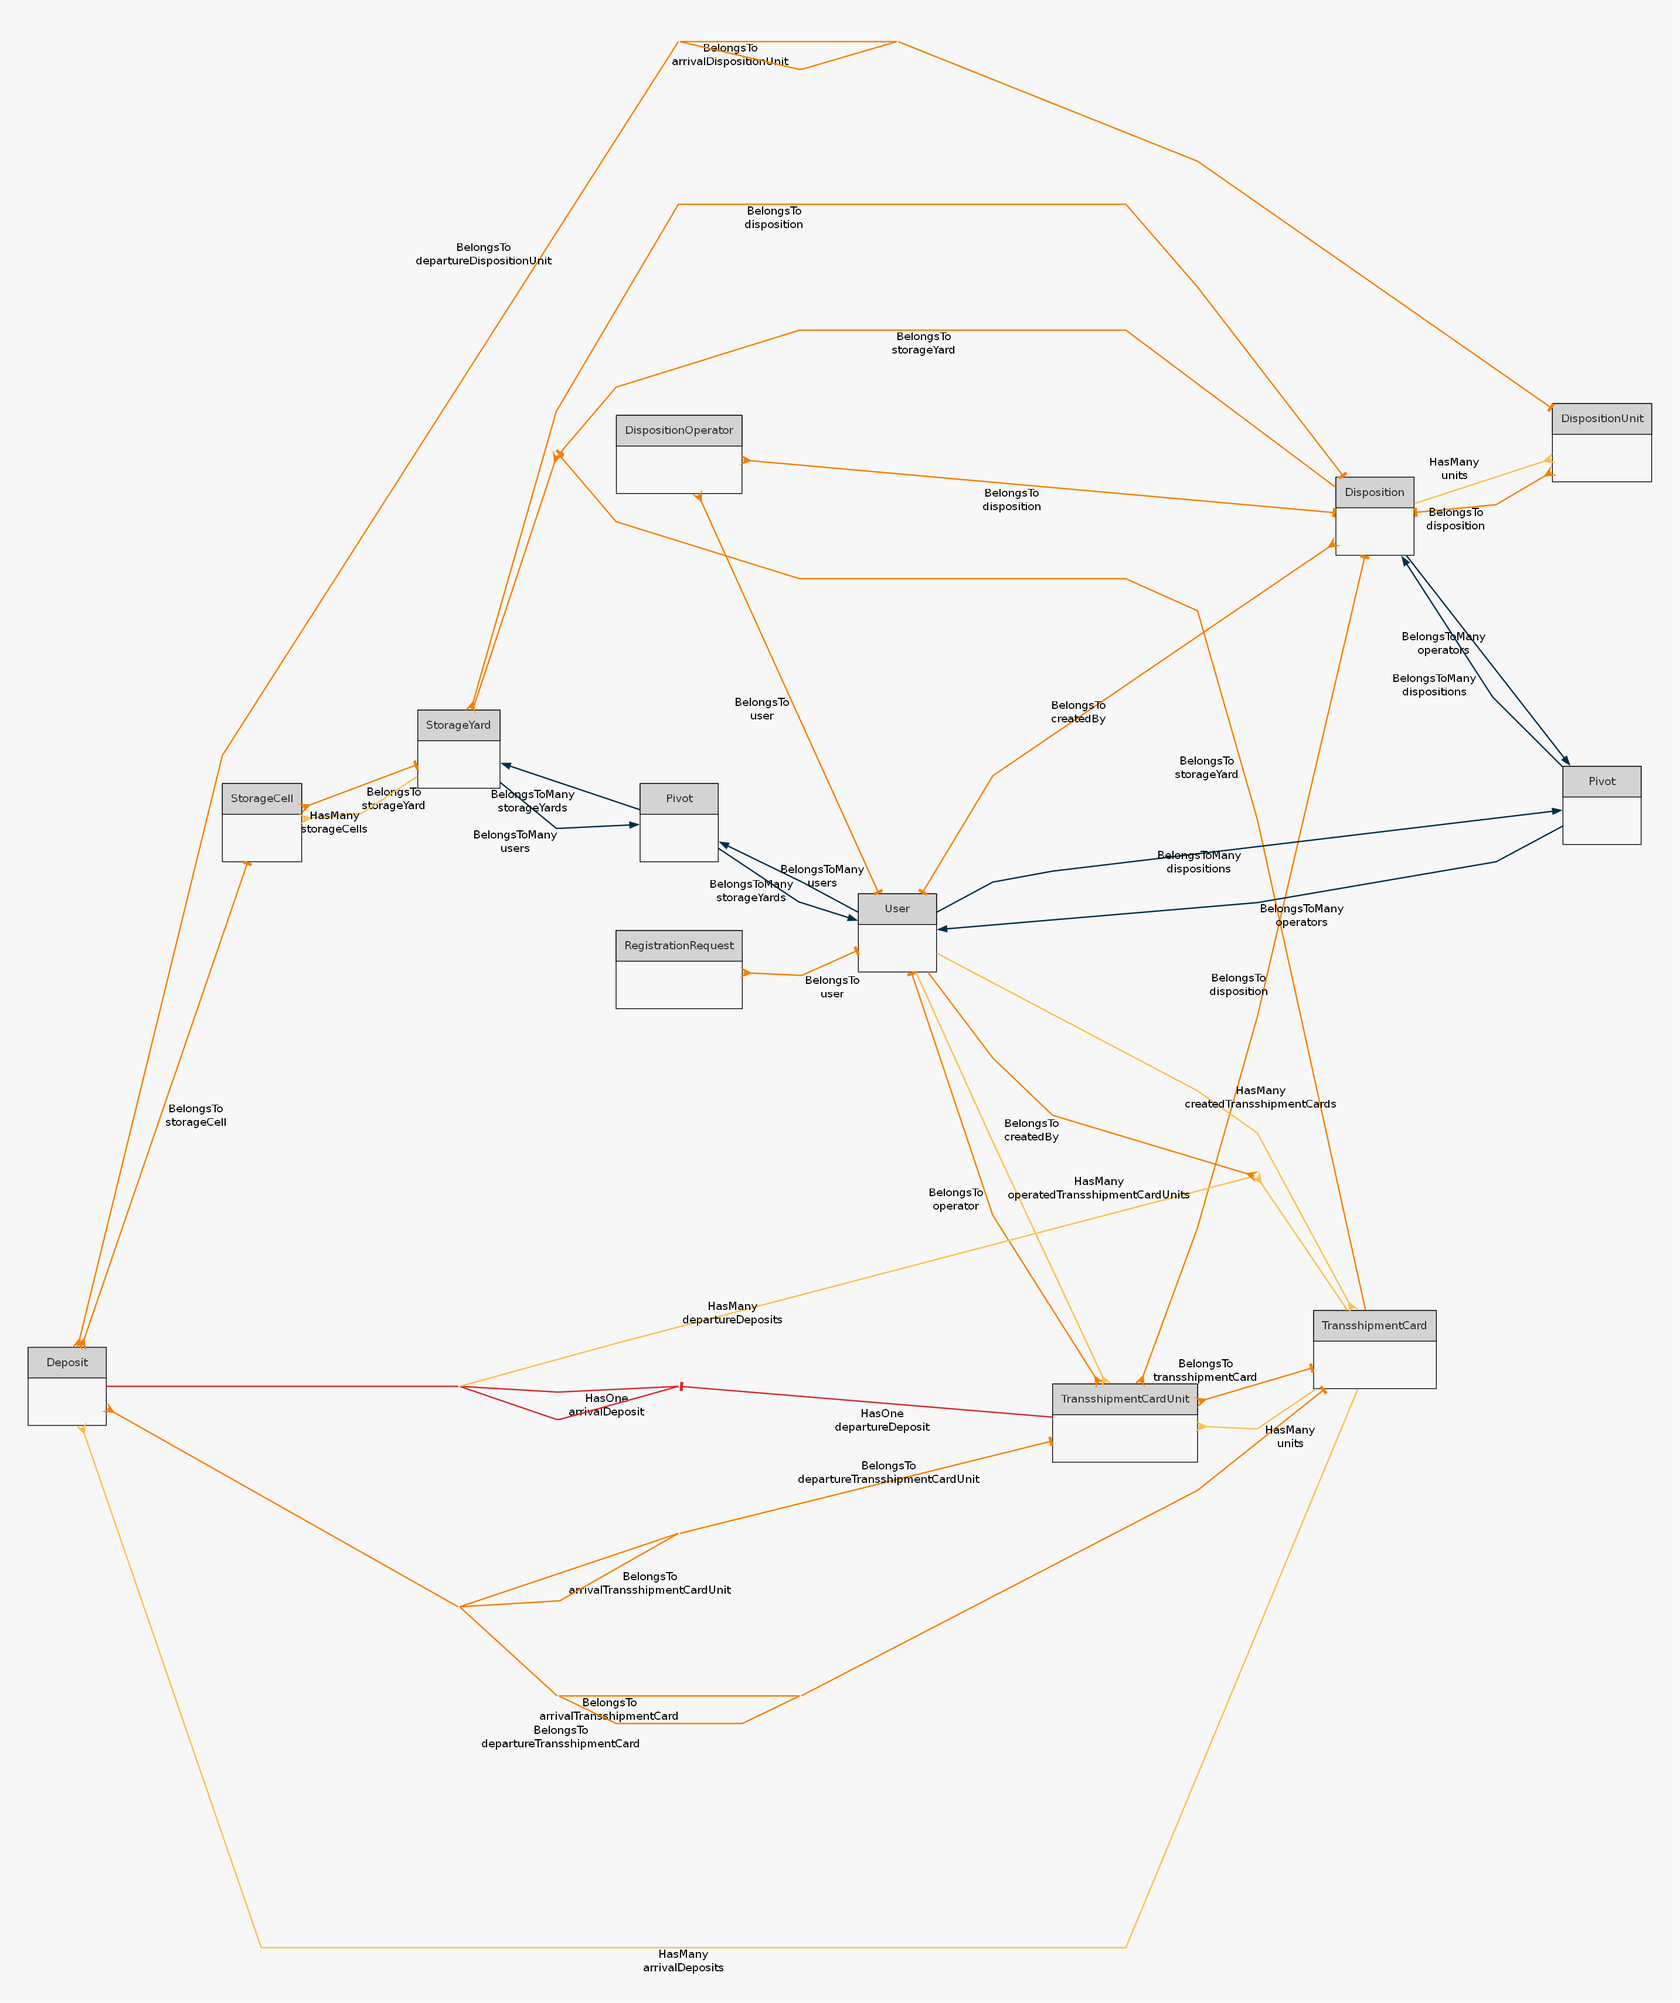
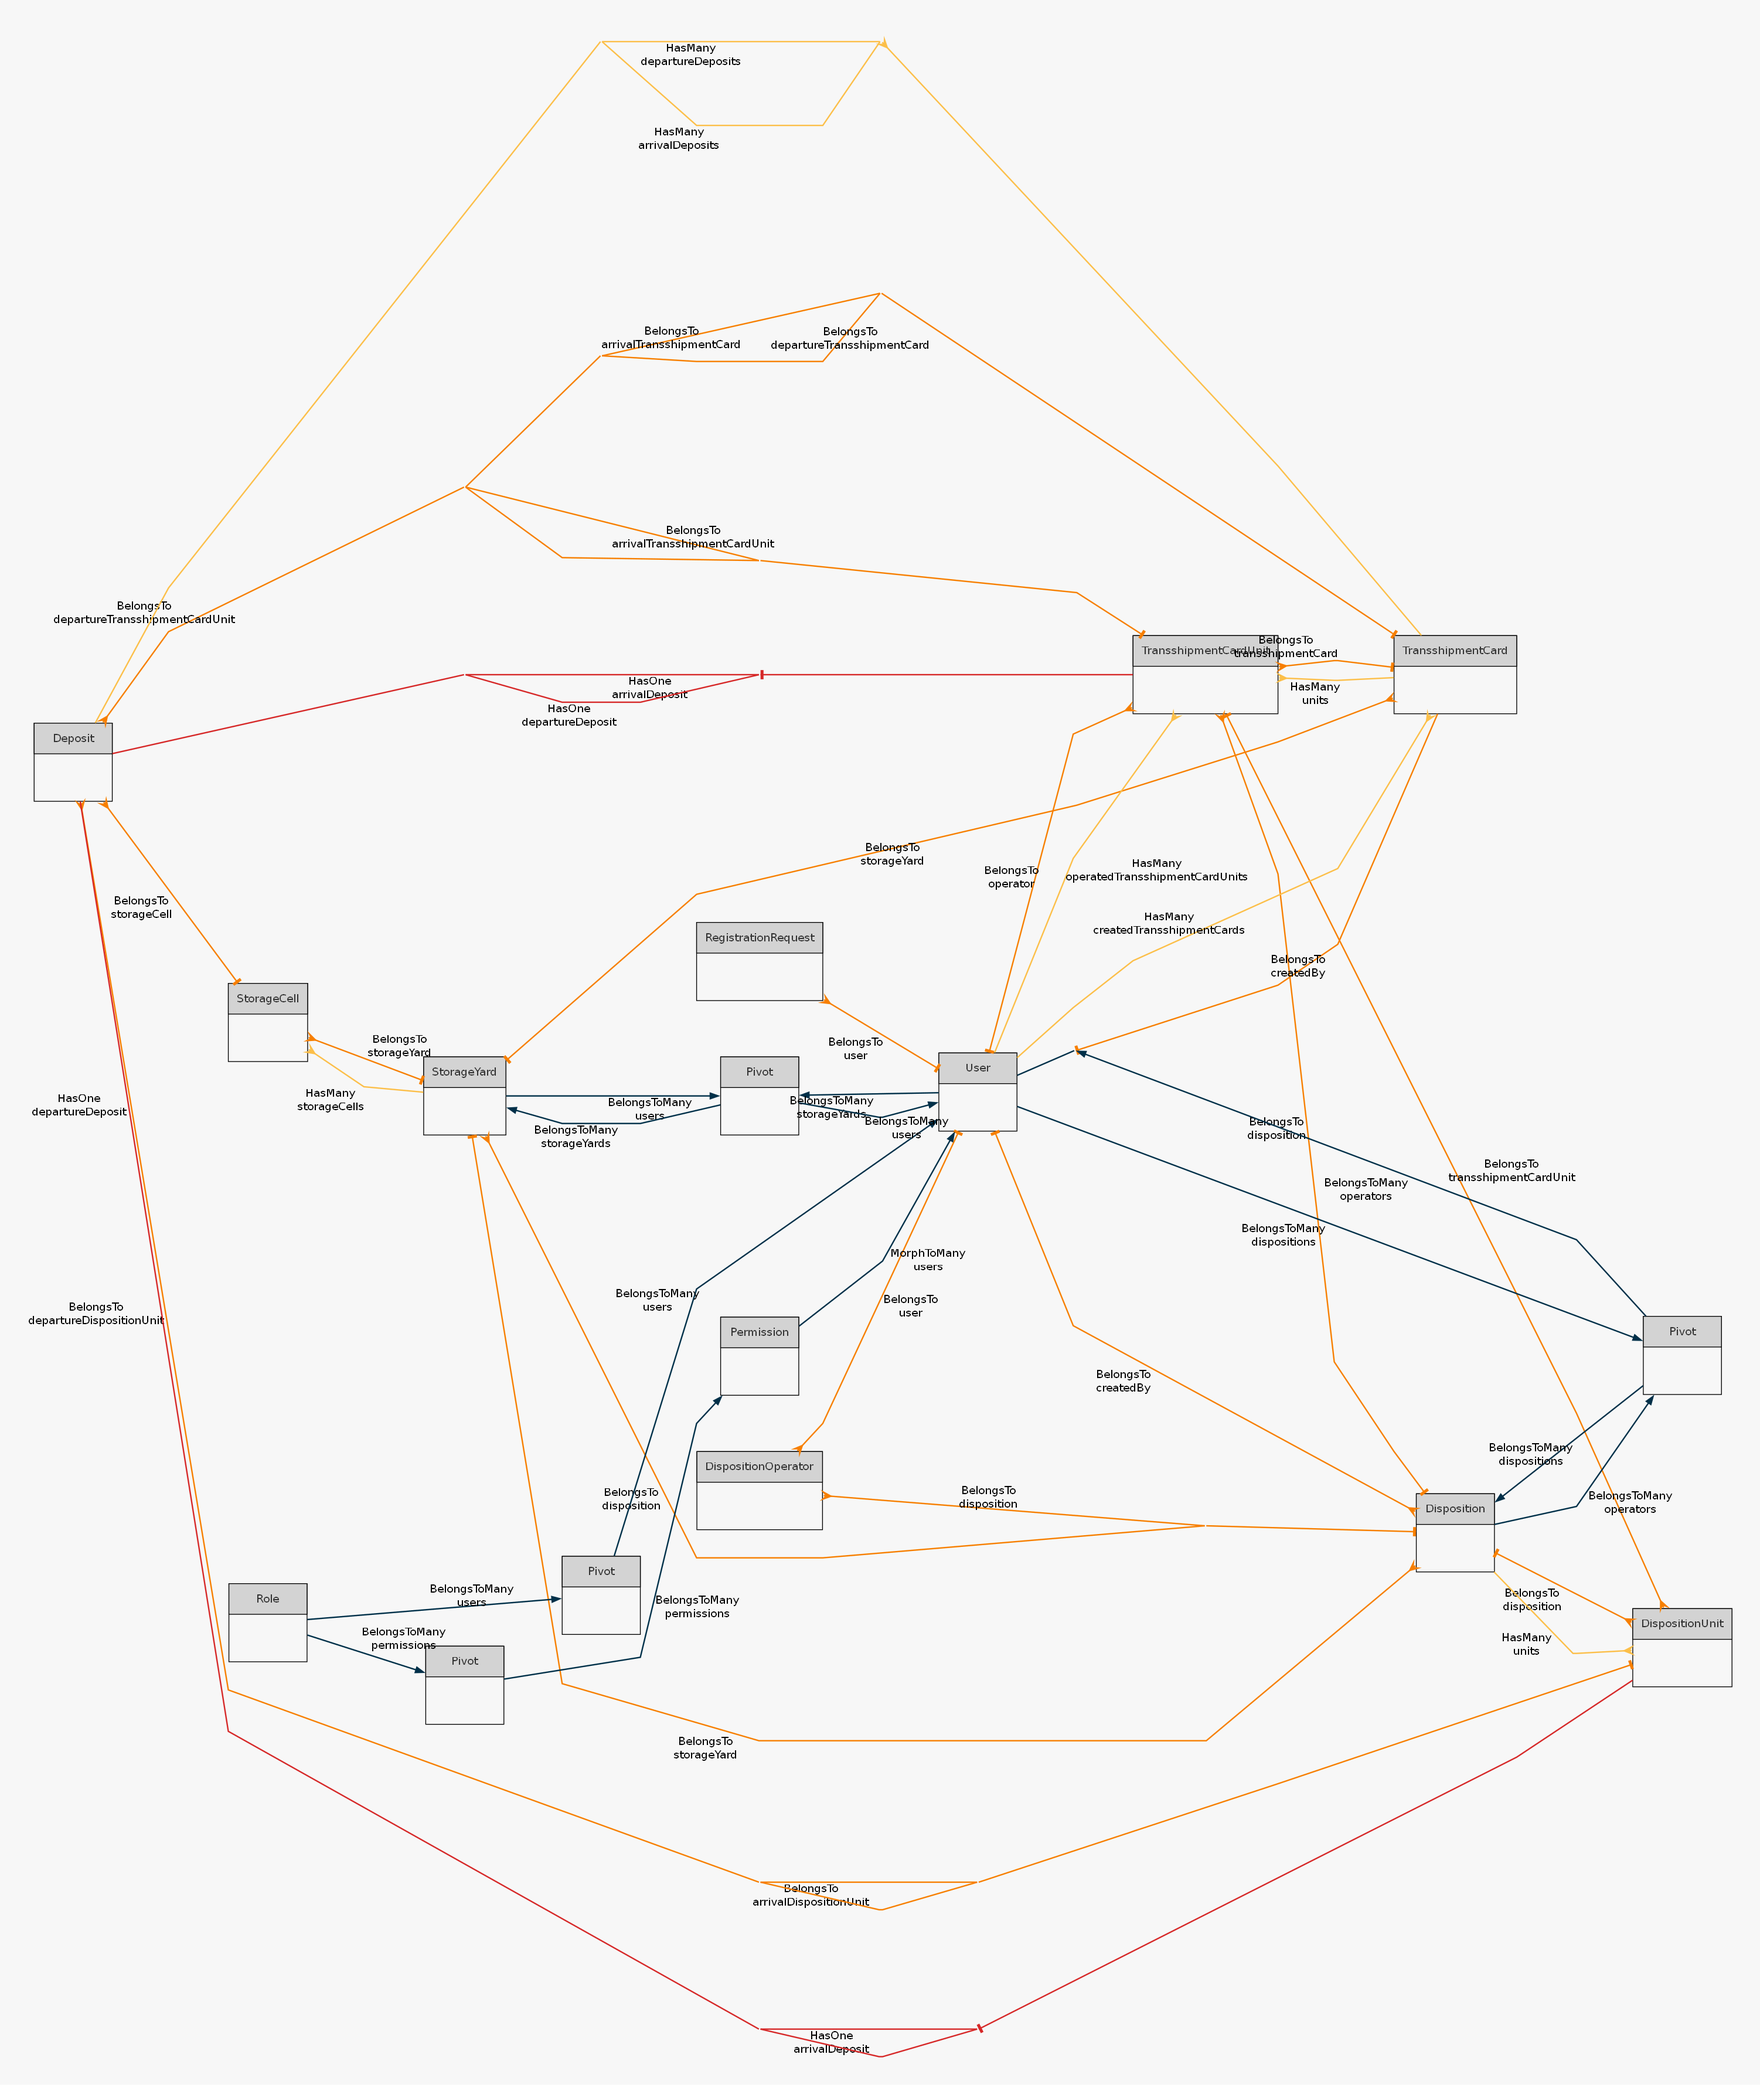
cd

diff --git a/app/Livewire/Operations/PerformOperationModal.php b/app/Livewire/Operations/PerformOperationModal.php
@@ -7,14 +7,17 @@ use App\Models\DispositionUnit;
 use App\Livewire\ModalComponent;
 use App\Models\TransshipmentCard;
 use App\Enums\OperationRelationEnum;
+use App\Models\Deposit;
 use App\Models\TransshipmentCardUnit;
 use App\Services\TransshipmentCardService;
+use Exception;
 use Illuminate\Support\Facades\Auth;
 
 class PerformOperationModal extends ModalComponent
 {
     public $title, $operation, $availableCards = [], $disposition, $relationFrom, $relationTo;
     public $selectedCard, $netWeight, $tareWeight, $tcu_notes, $carriageNumberTo, $truckNumberTo;
+    private $transshipmentCardService;
 
     protected function rules() { 
         return [
@@ -54,23 +57,26 @@ class PerformOperationModal extends ModalComponent
         ];
     }
 
+    public function boot()
+    {
+        $this->transshipmentCardService = new TransshipmentCardService();
+    }
+
     #[On('performOperationModal')]
     public function performOperationModal(DispositionUnit $operation) : void
     {
-        $this->operation = $operation;
-        $this->operation->loadMissing('disposition');
-        $this->disposition = $operation->disposition;
+        $this->operation = $operation->load(['disposition']);
+        $this->disposition = $this->operation->disposition;
         $this->relationFrom = $this->disposition->dis_relation_from;
         $this->relationTo = $this->disposition->dis_relation_to;
 
-        $this->availableCards = (new TransshipmentCardService())->getAvailableCards($this->operation);
+        $this->availableCards = $this->transshipmentCardService->getAvailableCards($this->operation);
         $this->title = __('Execute operation - ') . $operation->disu_container_number;
     }
 
     public function performOperation() : void
     {
         $this->validate();
-        $transshipmentCardService = new TransshipmentCardService();
 
         $cardUnit = new TransshipmentCardUnit();
         $cardUnit->tcu_notes = $this->tcu_notes;
@@ -80,27 +86,24 @@ class PerformOperationModal extends ModalComponent
 
         $cardUnit = $this->determineRelationAndSetAttributes($cardUnit);
 
-        if ($this->relationToCarriage()) {
-            $transshipmentCardService->calcGrossWeight($cardUnit);
-        }
-
         $card = null;
 
         if ($this->selectedCard == 'newCard') {
-            $card = $transshipmentCardService->createNewCard($this->operation);
+            $card = $this->transshipmentCardService->createNewCard($this->operation);
         } else {
             $card = TransshipmentCard::findOrFail((int) $this->selectedCard);
         }
 
         $cardUnit->tcu_tc_id = $card->tc_id;
         $cardUnit->save();
-
         // todo do dyspozycji operacji trzeba dodać cardUnitId, gdy wszystkie jednostki z dyspozycji zostaną zrealizowane należy zmienić status i ustawić datę zakończenia
         // (dis_completion_date). dodatkowo z każdej jednostki trzeba wygenerować jednostki transshipment card albo cały nagłówek gdy użytkownik wybrał w selectcie "nowa karta".
         // gdy jest to przeładunek na plac należy wybrać miejsce składowania do którego ma być przypisane(dostępne na placu wybranym w dyspozycji)
         // i dodać do depozytów z odpowiednim id karty przeładunkowej i dyspozycji.
+        // pamiętaj o depozycie - dep_departure_date
         $this->dispatch('refreshOperationsCounter');
     }
+
 
     private function determineRelationAndSetAttributes(TransshipmentCardUnit $cardUnit) : TransshipmentCardUnit
     {
@@ -115,21 +118,45 @@ class PerformOperationModal extends ModalComponent
         return $cardUnit;
     }
     
-    private function performOperationToCarriage(TransshipmentCardUnit $cardUnit) : void
+    private function performOperationToCarriage(TransshipmentCardUnit $cardUnit) : TransshipmentCardUnit
     {
-        if ($this->relationToYard()) {
-            $cardUnit->tcu_net_weight = $this->netWeight;
-
-        } else {
-            $cardUnit->tcu_net_weight = $this->netWeight;
-            $cardUnit->tcu_tare_weight = $this->tareWeight;
-        }
+        $cardUnit->tcu_net_weight = $this->netWeight;
+        $cardUnit->tcu_tare_weight = $this->tareWeight;
         $cardUnit->tcu_carriage_number_to = $this->carriageNumberTo;
-        $cardUnit->tcu_truck_number_to = $this->truckNumberTo;
         
+        $arrivalDeposit = Deposit::with(['arrivalDispositionUnit', 'storageCell'])
+            ->available()
+            ->where('dep_number', $this->operation->disu_container_number)
+            ->first();
+        
+        if (!$arrivalDeposit) {
+            throw new Exception(__('Could not find suitable deposit for container ') . $this->operation->disu_container_number);
+        }
+
+        $arrivalDispositionUnit = $arrivalDeposit->arrivalDispositionUnit;
+
+        if (!$arrivalDispositionUnit) {
+            throw new Exception(__('Could not find suitable disposition unit for container ') . $this->operation->disu_container_number);
+        }
+
+        $cardUnit->tcu_carriage_number_from = $arrivalDispositionUnit->disu_carriage_number;
+        $cardUnit->tcu_truck_number_from = $arrivalDispositionUnit->disu_car_number;
+
+        $cardUnit = $this->transshipmentCardService->calcGrossWeight($cardUnit);
+
+        $cell = $arrivalDeposit->storageCell;
+
+        if (!$cell) {
+            throw new Exception(__('Deposit does not have aassigned storage cell'));
+        }
+
+        $cardUnit->tcu_yard_position = $cell->sc_yard_name_short . '/' . $cell->sc_cell. '/' . $cell->sc_row . '/' . $cell->sc_height;
+
+        return $cardUnit;
     }
 
-    private function performOperationToTruck(TransshipmentCardUnit $cardUnit) : void
+
+    private function performOperationToTruck(TransshipmentCardUnit $cardUnit) : TransshipmentCardUnit
     {
         if ($this->relationToYard()) {
             $cardUnit->tcu_net_weight = $this->netWeight;
@@ -140,6 +167,8 @@ class PerformOperationModal extends ModalComponent
         }
         $cardUnit->tcu_carriage_number_to = $this->carriageNumberTo;
         $cardUnit->tcu_truck_number_to = $this->truckNumberTo;
+
+        return $cardUnit;
     }
 
     public function relationToYard() : bool

diff --git a/app/Models/Permission.php b/app/Models/Permission.php
@@ -2,12 +2,47 @@
 
 namespace App\Models;
 
+use Spatie\Permission\PermissionRegistrar;
 use Illuminate\Database\Eloquent\Factories\HasFactory;
+use Illuminate\Database\Eloquent\Relations\BelongsToMany;
 use Spatie\Permission\Models\Permission as SpatiePermission;
 
+/**
+ * App\Models\Permission
+ * @property-read \Illuminate\Database\Eloquent\Collection|\App\Models\Role[] $roles
+ * @property-read \Illuminate\Database\Eloquent\Collection|\App\Models\User[] $users
+ */
 class Permission extends SpatiePermission
 {
     use HasFactory;
 
     protected $fillable = ['name', 'guard_name'];
+    
+    /**
+     * A permission can be applied to roles.
+     */
+    public function roles(): BelongsToMany
+    {
+        return $this->belongsToMany(
+            config('permission.models.role'),
+            config('permission.table_names.role_has_permissions'),
+            app(PermissionRegistrar::class)->pivotPermission,
+            app(PermissionRegistrar::class)->pivotRole
+        );
+    }
+
+    
+    /**
+     * A permission belongs to some users of the model associated with its guard.
+     */
+    public function users(): BelongsToMany
+    {
+        return $this->morphedByMany(
+            getModelForGuard($this->attributes['guard_name'] ?? config('auth.defaults.guard')),
+            'model',
+            config('permission.table_names.model_has_permissions'),
+            app(PermissionRegistrar::class)->pivotPermission,
+            config('permission.column_names.model_morph_key')
+        );
+    }
 }

diff --git a/resources/views/livewire/operations/perform-operation-modal.blade.php b/resources/views/livewire/operations/perform-operation-modal.blade.php
@@ -18,12 +18,18 @@
             @if($this->relationToCarriage())
                 <div class="row">
                     <div class="col-md-6">
-                        <x-input-full :label="__('Net weight')" wire:model='netWeight'></x-input-full>
+                        <x-input-full type="number" :label="__('Net weight')" wire:model='netWeight'></x-input-full>
                         <x-input-error :messages="$errors->get('netWeight')" class="mt-2" />
                     </div>
                     <div class="col-md-6">
-                        <x-input-full :label="__('Tare weight')" wire:model='netWeight'></x-input-full>
-                        <x-input-error :messages="$errors->get('netWeight')" class="mt-2" />
+                        <x-input-full type="number" :label="__('Tare weight')" wire:model='tareWeight'></x-input-full>
+                        <x-input-error :messages="$errors->get('tareWeight')" class="mt-2" />
+                    </div>
+                </div>
+                <div class="row">
+                    <div class="col-md-12">
+                        <x-input-full :label="__('Carriage number')" wire:model='carriageNumberTo'></x-input-full>
+                        <x-input-error :messages="$errors->get('carriageNumberTo')" class="mt-2" />
                     </div>
                 </div>
             @elseif($this->relationToTruck())

diff --git a/app/Models/Role.php b/app/Models/Role.php
@@ -3,13 +3,48 @@
 namespace App\Models;
 
 use Illuminate\Database\Eloquent\Factories\HasFactory;
-use Illuminate\Database\Eloquent\Model;
+use Illuminate\Database\Eloquent\Relations\BelongsToMany;
 use Spatie\Permission\Models\Role as SpatieRole;
 
+/**
+ * App\Models\Role
+ * 
+ * @property-read \Illuminate\Database\Eloquent\Collection|\App\Models\Permission[] $permissions
+ * @property-read \Illuminate\Database\Eloquent\Collection|\App\Models\User[] $users
+ */
 class Role extends SpatieRole
 {
     use HasFactory;
 
     protected $fillable = ['name', 'guard_name'];
     
+    /**
+     * The permissions that belong to the role.
+     *
+     * @return \Illuminate\Database\Eloquent\Relations\BelongsToMany
+     */
+    public function permissions() : BelongsToMany
+    {
+        return $this->belongsToMany(
+            Permission::class,
+            'role_has_permissions',
+            'role_id',
+            'permission_id'
+        );
+    }
+    
+    /**
+     * The users that belong to the role.
+     *
+     * @return \Illuminate\Database\Eloquent\Relations\BelongsToMany
+     */
+    public function users() : BelongsToMany
+    {
+        return $this->belongsToMany(
+            User::class,
+            'model_has_roles',
+            'role_id',
+            'model_id'
+        )->where('model_type', User::class);
+    }
 }

diff --git a/app/Models/DispositionUnit.php b/app/Models/DispositionUnit.php
@@ -27,6 +27,16 @@ class DispositionUnit extends Model
         return $this->belongsTo(TransshipmentCardUnit::class, 'disu_cardunit_id', 'tcu_id');
     }
 
+    public function arrivalDeposit()
+    {
+        return $this->hasOne(Deposit::class, 'dep_arrival_disu_id', 'disu_id');
+    }
+
+    public function departureDeposit()
+    {
+        return $this->hasOne(Deposit::class, 'dep_departure_disu_id', 'disu_id');
+    }
+
     public function scopeForOperator($query, $operatorId)
     {
         return $query->whereHas('disposition.operators', function ($query) use ($operatorId) {
